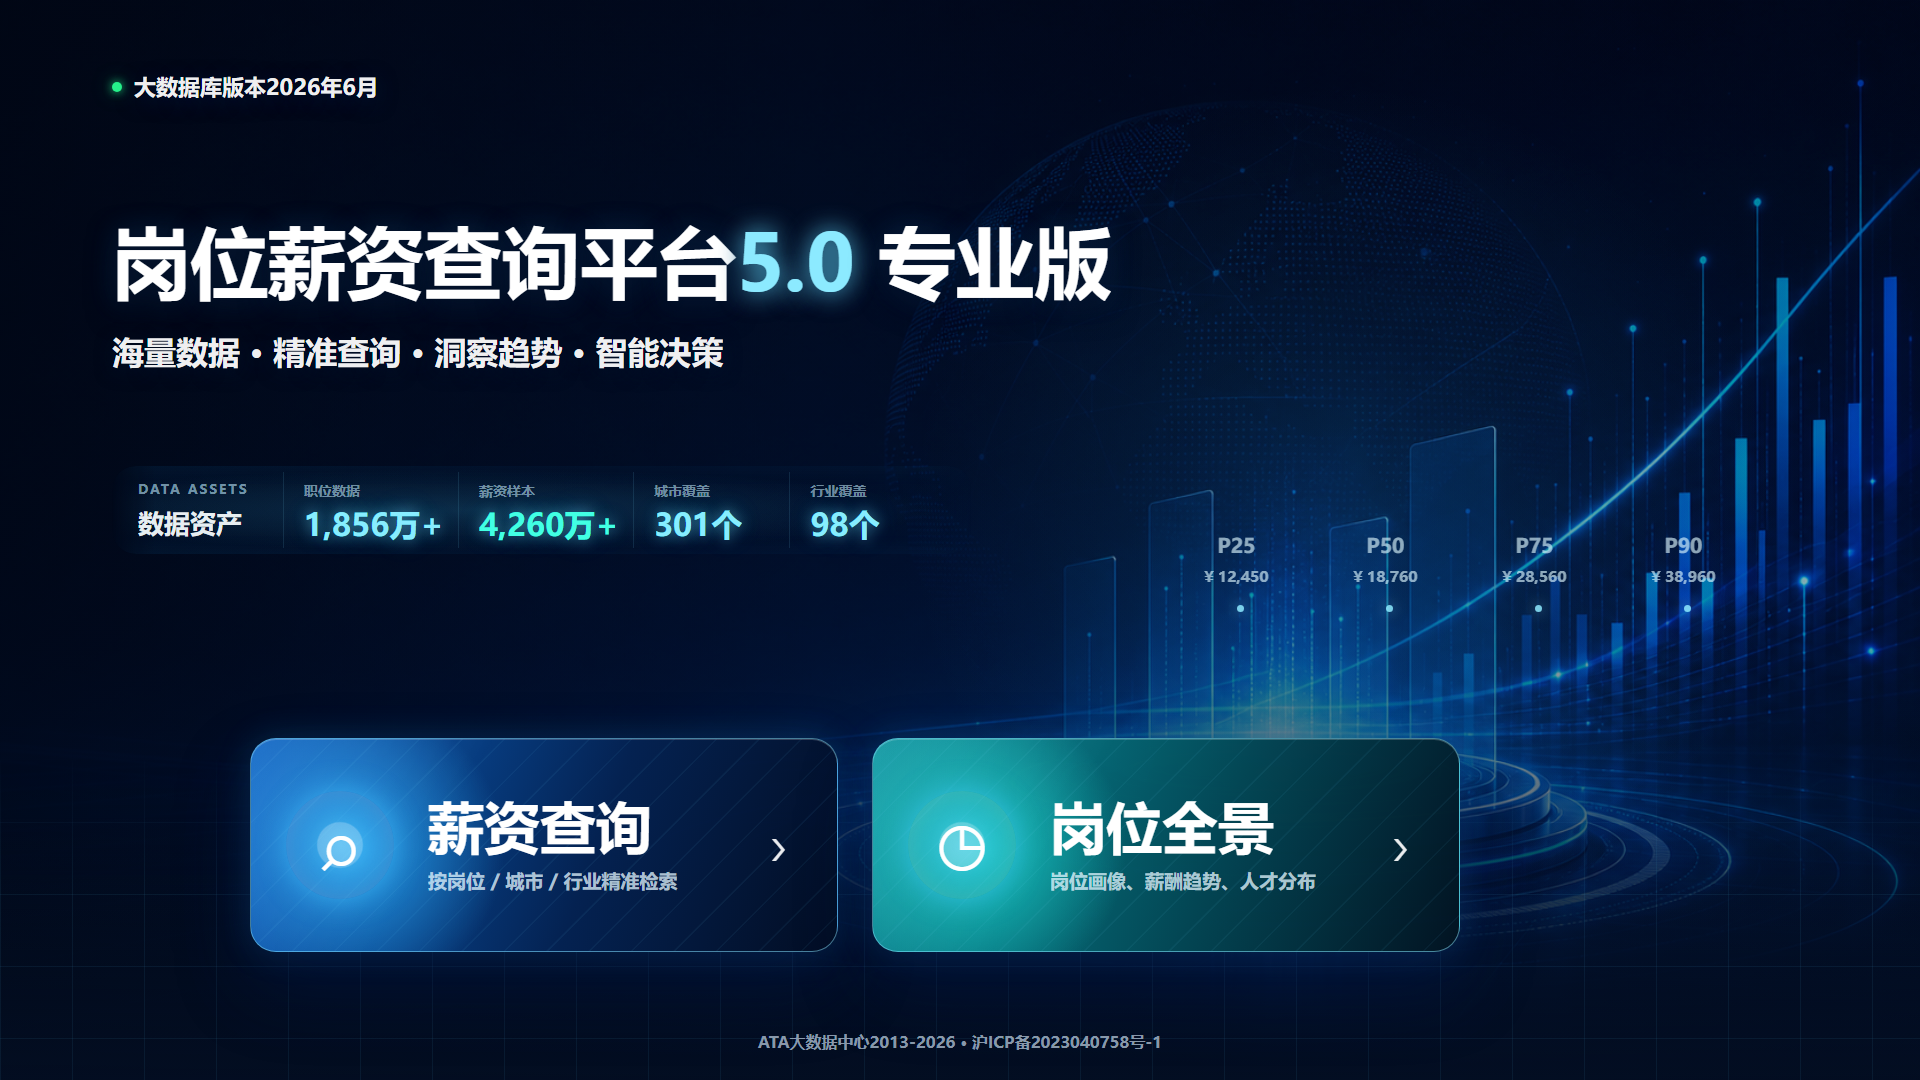
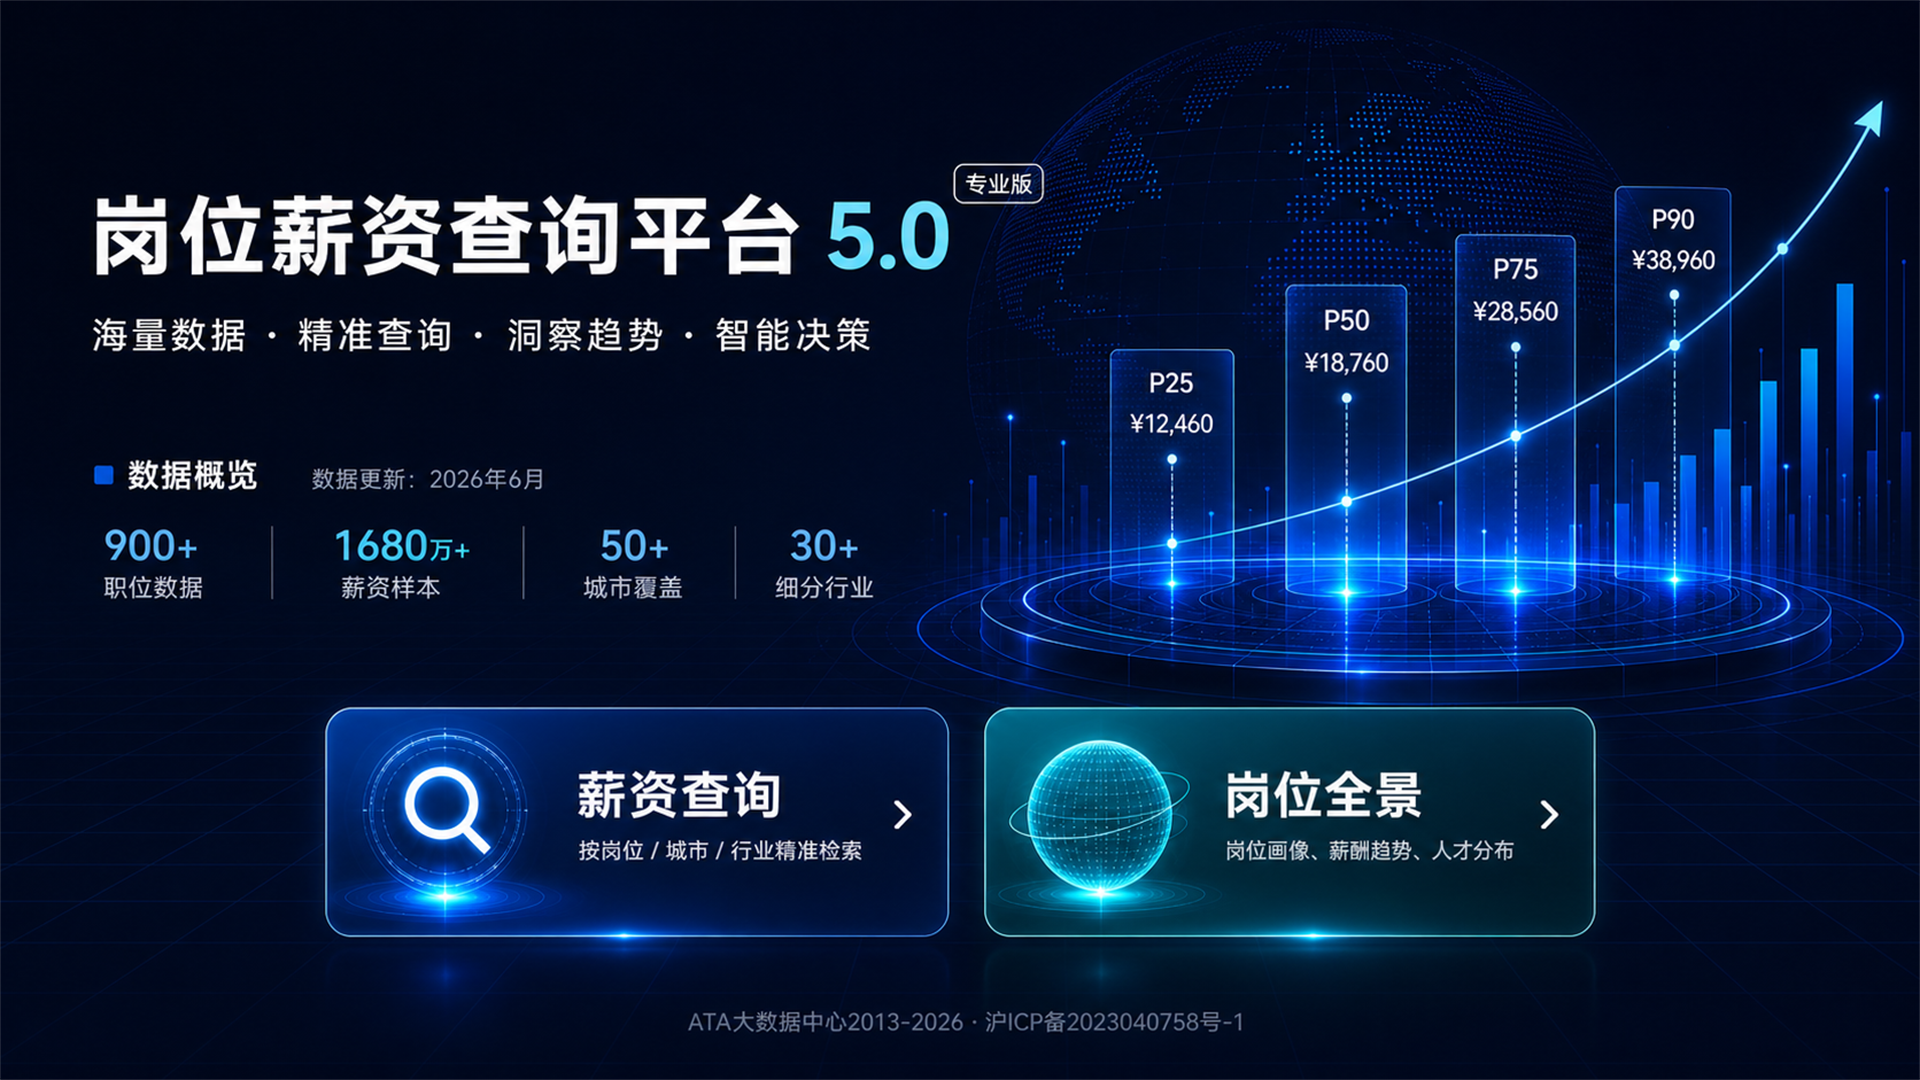
feat: update ATA100 desktop homepage visual

diff --git a/src/styles/index.css b/src/styles/index.css
@@ -2605,76 +2605,18 @@ body::before {
   background: rgba(255, 255, 255, 0.03);
 }
 
-.ata-title-cover,
-.ata-version-cover,
-.ata-pro-badge {
-  position: absolute;
-  z-index: 2;
-  pointer-events: none;
-}
-
-.ata-title-cover,
-.ata-version-cover {
-  border-radius: 8px;
-  background:
-    radial-gradient(circle at 70% 50%, rgba(16, 83, 143, 0.14), transparent 60%),
-    linear-gradient(90deg, rgba(0, 9, 24, 0.99), rgba(2, 18, 43, 0.985));
-  box-shadow: 0 0 34px rgba(1, 10, 25, 0.56);
-}
-
-.ata-version-cover-desktop {
-  left: 5.2%;
-  top: 6.1%;
-  width: 16.8%;
-  height: 4.6%;
-}
-
-.ata-title-cover-desktop {
-  left: 44.8%;
-  top: 20.0%;
-  width: 17.2%;
-  height: 9.8%;
-}
-
-.ata-pro-badge {
-  display: inline-flex;
-  align-items: center;
-  justify-content: center;
-  color: rgba(222, 247, 255, 0.96);
-  font-family: 'PingFang SC', 'Microsoft YaHei', system-ui, sans-serif;
-  font-weight: 800;
-  letter-spacing: 0.02em;
-  background:
-    linear-gradient(180deg, rgba(7, 43, 84, 0.72), rgba(3, 22, 50, 0.66));
-  border: 1px solid rgba(112, 211, 255, 0.5);
-  box-shadow:
-    0 0 12px rgba(55, 170, 255, 0.22),
-    inset 0 0 10px rgba(112, 211, 255, 0.12);
-  text-shadow: 0 1px 6px rgba(0, 10, 28, 0.72);
-  backdrop-filter: blur(8px);
-}
-
-.ata-pro-badge-desktop {
-  left: 45.65%;
-  top: 17.9%;
-  width: 4.85%;
-  height: 2.95%;
-  border-radius: 999px;
-  font-size: clamp(11px, 0.92vw, 18px);
-}
-
 .ata-desktop-salary {
-  left: 13.02%;
-  top: 68.42%;
-  width: 30.62%;
-  height: 19.72%;
+  left: 16.85%;
+  top: 65.25%;
+  width: 32.55%;
+  height: 21.55%;
 }
 
 .ata-desktop-panorama {
-  left: 45.42%;
-  top: 68.42%;
-  width: 30.62%;
-  height: 19.72%;
+  left: 51.15%;
+  top: 65.25%;
+  width: 32.05%;
+  height: 21.55%;
 }
 
 @media (max-width: 767px), (max-aspect-ratio: 3 / 4) {
@@ -2700,18 +2642,6 @@ body::before {
 
   .ata-design-stage {
     transform: none;
-  }
-
-  .ata-version-cover-mobile {
-    display: none;
-  }
-
-  .ata-title-cover-mobile {
-    display: none;
-  }
-
-  .ata-pro-badge-mobile {
-    display: none;
   }
 
   .ata-hotspot {

diff --git a/src/App.jsx b/src/App.jsx
@@ -399,9 +399,6 @@ function HomeLanding({ onGoIdentify, onGoResources, onGoHistory, onGoProfile }) 
           alt="岗位薪资查询平台5.0 专业版电脑版首页"
           draggable="false"
         />
-        <span className="ata-title-cover ata-title-cover-desktop" aria-hidden />
-        <span className="ata-version-cover ata-version-cover-desktop" aria-hidden />
-        <span className="ata-pro-badge ata-pro-badge-desktop" aria-hidden>专业版</span>
         <button className="ata-hotspot ata-desktop-salary" type="button" aria-label="薪资查询" onClick={onGoIdentify} />
         <button className="ata-hotspot ata-desktop-panorama" type="button" aria-label="岗位全景" onClick={onGoResources} />
       </main>
@@ -413,9 +410,6 @@ function HomeLanding({ onGoIdentify, onGoResources, onGoHistory, onGoProfile }) 
           alt="岗位薪资查询平台5.0 专业版手机版首页"
           draggable="false"
         />
-        <span className="ata-title-cover ata-title-cover-mobile" aria-hidden />
-        <span className="ata-version-cover ata-version-cover-mobile" aria-hidden />
-        <span className="ata-pro-badge ata-pro-badge-mobile" aria-hidden>专业版</span>
         <button className="ata-hotspot ata-mobile-salary" type="button" aria-label="薪资查询" onClick={onGoIdentify} />
         <button className="ata-hotspot ata-mobile-panorama" type="button" aria-label="岗位全景" onClick={onGoResources} />
         <button className="ata-hotspot ata-mobile-home" type="button" aria-label="首页" />